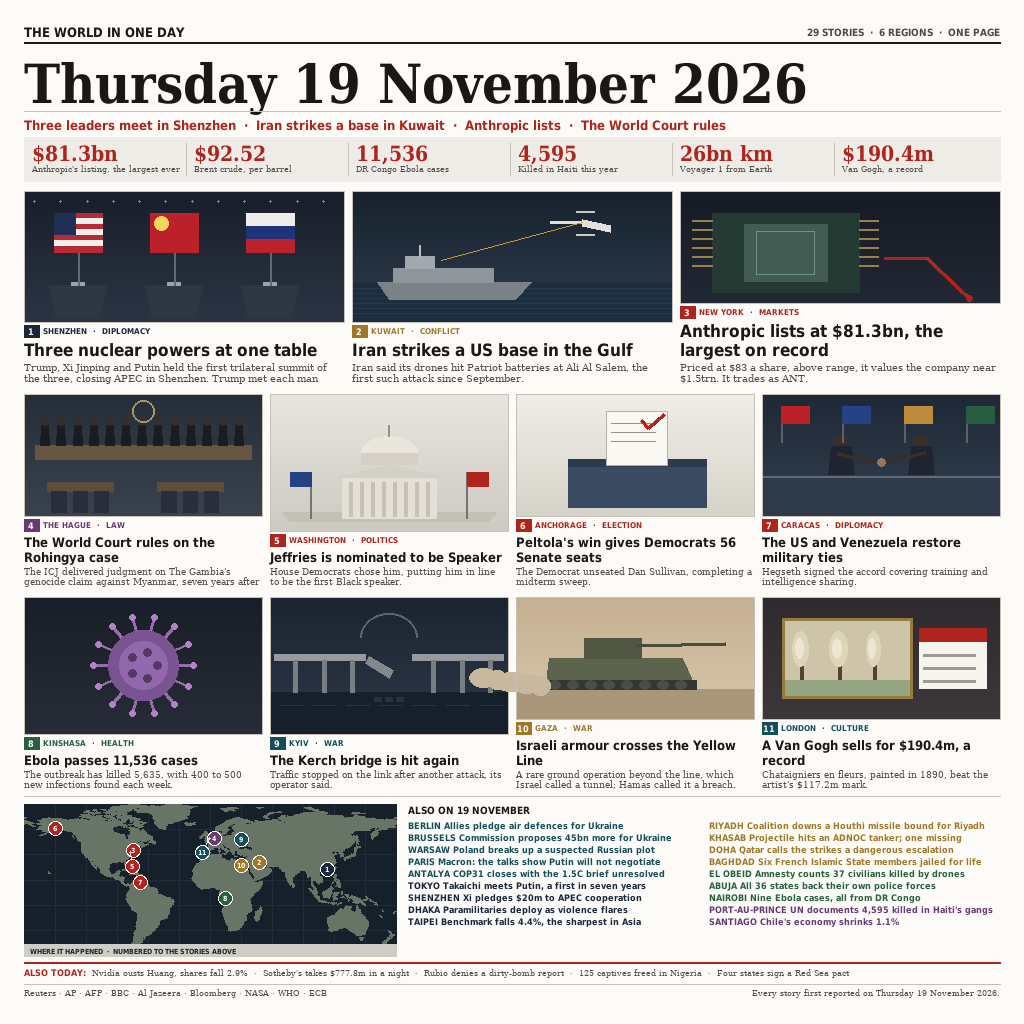
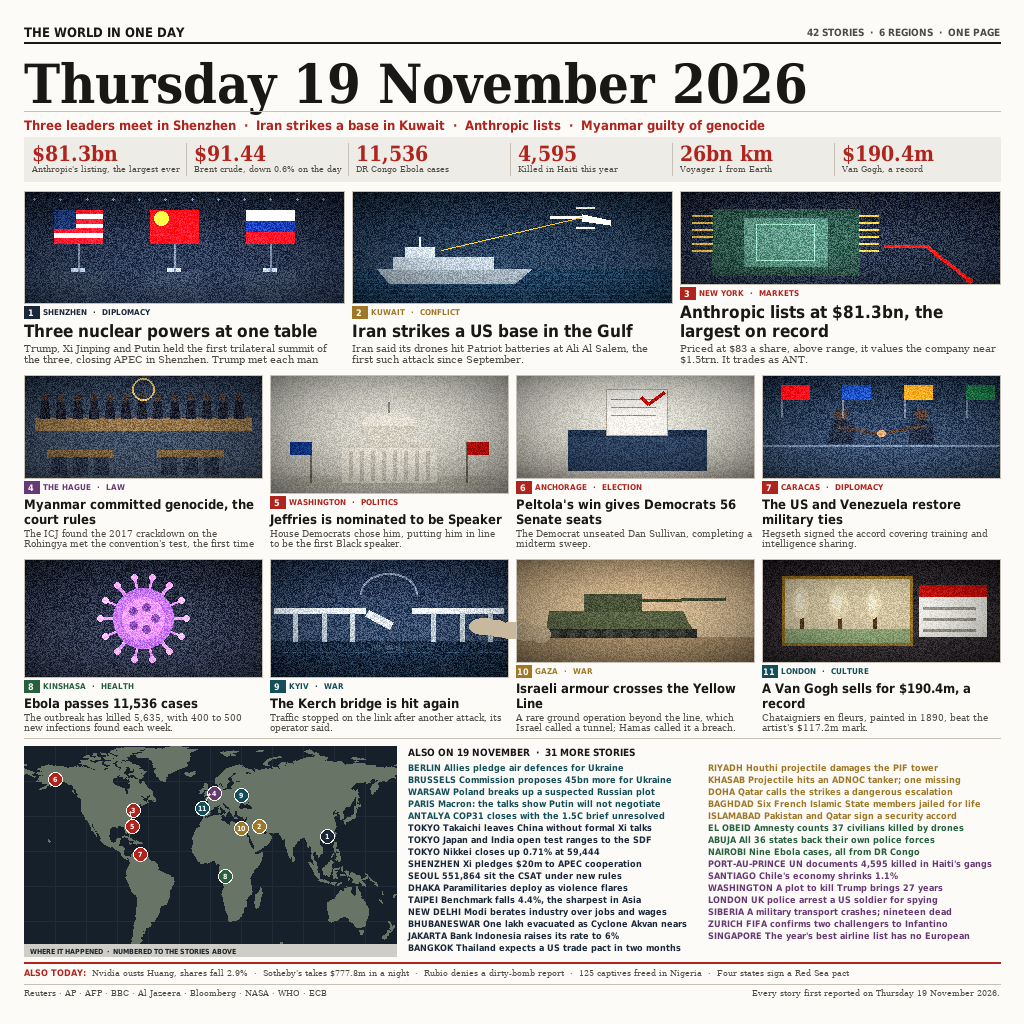
Print grain and lifted shadows on all eleven scenes, 32 briefs in the rail, corrected ICJ and Brent figures

diff --git a/src/render.py b/src/render.py
@@ -18,7 +18,7 @@ import math
 import os
 import sys
 
-from PIL import Image, ImageDraw, ImageFont
+from PIL import Image, ImageChops, ImageDraw, ImageEnhance, ImageFont, ImageStat
 
 W = H = 1024
 MARGIN = 24
@@ -90,9 +90,9 @@ TILES = [
     },
     {
         "region": "World", "place": "The Hague", "topic": "Law",
-        "headline": "The World Court rules on the Rohingya case",
-        "deck": "The ICJ delivered judgment on The Gambia's genocide claim against "
-                "Myanmar, seven years after it was filed.",
+        "headline": "Myanmar committed genocide, the court rules",
+        "deck": "The ICJ found the 2017 crackdown on the Rohingya met the "
+                "convention's test, the first time it has held a state guilty.",
         "art": "icj",
     },
     {
@@ -148,24 +148,37 @@ BRIEFS = [
     ("Europe", "Warsaw", "Poland breaks up a suspected Russian plot"),
     ("Europe", "Paris", "Macron: the talks show Putin will not negotiate"),
     ("Europe", "Antalya", "COP31 closes with the 1.5C brief unresolved"),
-    ("Asia", "Tokyo", "Takaichi meets Putin, a first in seven years"),
+    ("Asia", "Tokyo", "Takaichi leaves China without formal Xi talks"),
+    ("Asia", "Tokyo", "Japan and India open test ranges to the SDF"),
+    ("Asia", "Tokyo", "Nikkei closes up 0.71% at 59,444"),
     ("Asia", "Shenzhen", "Xi pledges $20m to APEC cooperation"),
+    ("Asia", "Seoul", "551,864 sit the CSAT under new rules"),
     ("Asia", "Dhaka", "Paramilitaries deploy as violence flares"),
     ("Asia", "Taipei", "Benchmark falls 4.4%, the sharpest in Asia"),
-    ("MidEast", "Riyadh", "Coalition downs a Houthi missile bound for Riyadh"),
+    ("Asia", "New Delhi", "Modi berates industry over jobs and wages"),
+    ("Asia", "Bhubaneswar", "One lakh evacuated as Cyclone Akvan nears"),
+    ("Asia", "Jakarta", "Bank Indonesia raises its rate to 6%"),
+    ("Asia", "Bangkok", "Thailand expects a US trade pact in two months"),
+    ("MidEast", "Riyadh", "Houthi projectile damages the PIF tower"),
     ("MidEast", "Khasab", "Projectile hits an ADNOC tanker; one missing"),
     ("MidEast", "Doha", "Qatar calls the strikes a dangerous escalation"),
     ("MidEast", "Baghdad", "Six French Islamic State members jailed for life"),
+    ("MidEast", "Islamabad", "Pakistan and Qatar sign a security accord"),
     ("Africa", "El Obeid", "Amnesty counts 37 civilians killed by drones"),
     ("Africa", "Abuja", "All 36 states back their own police forces"),
     ("Africa", "Nairobi", "Nine Ebola cases, all from DR Congo"),
     ("World", "Port-au-Prince", "UN documents 4,595 killed in Haiti's gangs"),
     ("World", "Santiago", "Chile's economy shrinks 1.1%"),
+    ("World", "Washington", "A plot to kill Trump brings 27 years"),
+    ("World", "London", "UK police arrest a US soldier for spying"),
+    ("World", "Siberia", "A military transport crashes; nineteen dead"),
+    ("World", "Zurich", "FIFA confirms two challengers to Infantino"),
+    ("World", "Singapore", "The year's best airline list has no European"),
 ]
 
 NUMBERS = [
     ("$81.3bn", "Anthropic's listing, the largest ever"),
-    ("$92.52", "Brent crude, per barrel"),
+    ("$91.44", "Brent crude, down 0.6% on the day"),
     ("11,536", "DR Congo Ebola cases"),
     ("4,595", "Killed in Haiti this year"),
     ("26bn km", "Voyager 1 from Earth"),
@@ -179,10 +192,9 @@ DATE_CHECK = [
     "125 captives freed in Nigeria",
     "Four states sign a Red Sea pact",
 ]
-
 BILLBOARD = (
     "Three leaders meet in Shenzhen  ·  Iran strikes a base in Kuwait  ·  "
-    "Anthropic lists  ·  The World Court rules"
+    "Anthropic lists  ·  Myanmar guilty of genocide"
 )
 
 
@@ -731,6 +743,79 @@ ART = {
 }
 
 
+# --- print texture ---------------------------------------------------------
+# A flat vector fill reads as a diagram; a printed photograph is grainy, has
+# a tonal fall-off at the edges and carries hundreds of intermediate tones.
+# These three passes give the drawn scenes that, deterministically.
+_GRAIN = None
+
+
+def _grain():
+    """A fixed, deterministic grain tile: no random module, no clock."""
+    global _GRAIN
+    if _GRAIN is None:
+        rnd = 20261118
+        tile = Image.new("L", (256, 256))
+        px = tile.load()
+        for y in range(256):
+            for x in range(256):
+                rnd = (1103515245 * rnd + 12345) & 0x7FFFFFFF
+                px[x, y] = 128 + ((rnd >> 15) % 96) - 48
+        _GRAIN = tile
+    return _GRAIN
+
+
+def _texture(img, box, strength=1.0):
+    """Grain, a vignette and a touch more colour, confined to one art box."""
+    x0, y0, x1, y1 = (int(v) for v in box)
+    w, h = x1 - x0, y1 - y0
+    if w <= 1 or h <= 1:
+        return
+
+    region = img.crop((x0, y0, x1, y1))
+
+    # grain: tile the fixed pattern, then add it as zero-centred noise
+    grain = _grain()
+    noise = Image.new("L", (w, h))
+    for ty in range(0, h, 256):
+        for tx in range(0, w, 256):
+            noise.paste(grain, (tx, ty))
+    if strength < 1.0:
+        noise = noise.point(lambda v: 128 + int((v - 128) * strength))
+    noisy = ImageChops.add(
+        region, Image.merge("RGB", (noise, noise, noise)), scale=1.0, offset=-128
+    )
+    region = Image.blend(region, noisy, 0.55)
+
+    # vignette: darker at the edges, as a lens and an ink fringe both give.
+    # A separable fall-off: the row and column factors multiply.
+    shade = Image.new("L", (w, h), 255)
+    sp = shade.load()
+    cx, cy = w / 2.0, h / 2.0
+    col_f = [
+        int(255 - 78 * min(1.0, (abs(xx - cx) / max(1.0, cx * 1.02)) ** 2))
+        for xx in range(w)
+    ]
+    for yy in range(h):
+        fy = int(255 - 78 * min(1.0, (abs(yy - cy) * 1.05 / max(1.0, cy * 1.02)) ** 2))
+        for xx in range(w):
+            sp[xx, yy] = (fy * col_f[xx]) // 255
+    shade_rgb = Image.merge("RGB", (shade, shade, shade))
+    region = ImageChops.multiply(region, shade_rgb)
+
+    # a little more colour: the page is printed on coated stock
+    region = ImageEnhance.Color(region).enhance(1.32)
+    region = ImageEnhance.Contrast(region).enhance(1.04)
+
+    # lift the mid-tones: five of the scenes are night pictures, and at the
+    # 300px the judge sees first they otherwise turn to mud
+    luma = ImageStat.Stat(region.convert("L")).mean[0]
+    if luma < 62:
+        region = ImageEnhance.Brightness(region).enhance(min(2.0, 62.0 / max(1.0, luma)))
+
+    img.paste(region, (x0, y0))
+
+
 # --- the map ---------------------------------------------------------------
 LAND_PATH = os.environ.get(
     "NI19_LAND",
@@ -866,7 +951,7 @@ def build(out_path: str) -> None:
     y += strip_h + 10
 
     # ---- the tiles: three wide, then two rows of four ----
-    rail_h = 152
+    rail_h = 210
     rail_top = BOTTOM - 44 - rail_h
     tile_top = y
     rows = [[0, 1, 2], [3, 4, 5, 6], [7, 8, 9, 10]]
@@ -898,6 +983,7 @@ def build(out_path: str) -> None:
 
             box = (x0, ry, x0 + tw, ry + art_h)
             ART[tile["art"]](d, box)
+            _texture(img, box)
             d.rectangle((x0, ry, x0 + tw, ry + art_h), outline=RULE)
 
             ty = ry + art_h + 3
@@ -934,31 +1020,34 @@ def build(out_path: str) -> None:
 
     bx = MARGIN + map_w + 12
     bw = W - MARGIN - bx
-    d.text((bx, rail_top), "ALSO ON 19 NOVEMBER", font=F("sans_cb", 10), fill=INK)
+    d.text((bx, rail_top), f"ALSO ON 19 NOVEMBER  ·  {len(BRIEFS)} MORE STORIES",
+           font=F("sans_cb", 10), fill=INK)
     by = rail_top + 16
 
-    colw = (bw - 10) // 2
+    # Pick the largest type size the rail holds, then the column count for it:
+    # a thumbnail is read before any word, so size wins over column count.
     for size in range(9, 5, -1):
         bfont = F("sans_cb", size)
         lead = size + 3
-        per_col = (rail_top + rail_h - by) // lead
-        total = sum(len(wrap(d, f"{city.upper()}  {text}", bfont, colw))
-                    for _, city, text in BRIEFS)
-        if total <= per_col * 2:
-            break
+        for ncol in (3, 4, 2, 5):
+            gut = 9
+            colw = (bw - gut * (ncol - 1)) // ncol
+            per_col = (rail_top + rail_h - by) // lead
+            wrapped = [(region, wrap(d, f"{city.upper()}  {text}", bfont, colw))
+                       for region, city, text in BRIEFS]
+            total = sum(len(ls) for _, ls in wrapped)
+            if total <= per_col * ncol:
+                break
+        else:
+            continue
+        break
 
-    # balance the two columns by line count, not by first-fit: 18 briefs in a
-    # 10/8 split leaves one column hanging
-    wrapped = [(region, wrap(d, f"{city.upper()}  {text}", bfont, colw))
-               for region, city, text in BRIEFS]
-    total = sum(len(ls) for _, ls in wrapped)
-    target = (total + 1) // 2
-
+    # fill column by column, in reading order, never splitting a brief
     col, cy, used = 0, by, 0
     for region, lines in wrapped:
-        if col == 0 and used + len(lines) > target and used > 0:
-            col, cy, used = 1, by, 0
-        cx = bx + col * (colw + 10)
+        if used + len(lines) > per_col and col < ncol - 1:
+            col, cy, used = col + 1, by, 0
+        cx = bx + col * (colw + gut)
         for j, ln in enumerate(lines):
             d.text((cx, cy), ln, font=bfont,
                    fill=REGION_COLOUR[region] if j == 0 else INK)
